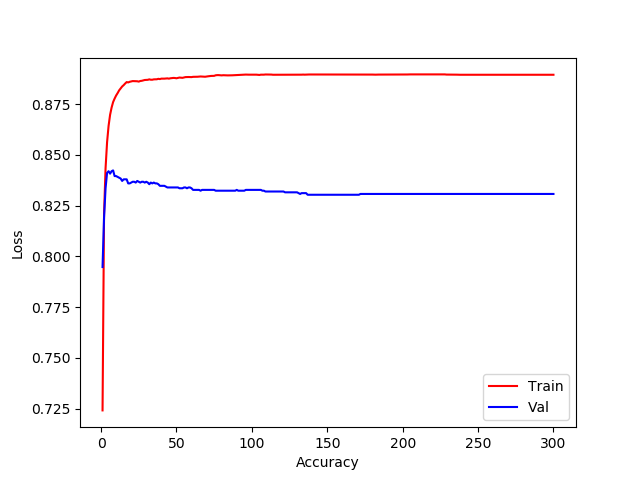
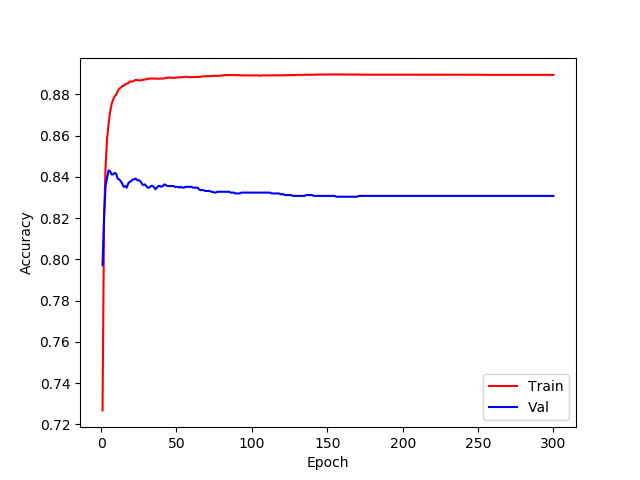
change picking the best model based on acc not loss

diff --git a/trainer.py b/trainer.py
@@ -40,9 +40,10 @@ train_loader = DataLoader(X_train, y_train,  bs=BATCH_SIZE)
 val_loader = DataLoader(X_val, y_val, bs=BATCH_SIZE)
 test_loader = DataLoader(X_val, y_val, bs=BATCH_SIZE)
 
-
+is_criterion_best_val_loss = False
 best_model = None
 best_val_loss = 9999
+best_val_acc = 0
 train_val_loss_list = []
 train_val_acc_list = []
 best_epoch_num = None
@@ -84,14 +85,23 @@ for epoch in tqdm(range(MAX_EPOCH)):
     train_val_loss_list.append((train_loss/len(train_loader), val_loss/len(val_loader)))
     train_val_acc_list.append((train_acc, val_acc))
 
-    if val_loss < best_val_loss:
-        best_val_loss = val_loss
-        best_epoch_num = epoch + 1
-        if best_model is not None:  # collect garbage
-            del best_model
-        best_model = deepcopy(model)
+    if is_criterion_best_val_loss:
+        if val_loss < best_val_loss:
+            best_val_loss = val_loss
+            best_epoch_num = epoch + 1
+            if best_model is not None:  # collect garbage
+                del best_model
+            best_model = deepcopy(model)
+    else:
+        if val_acc > best_val_acc:
+            best_val_acc = val_acc
+            best_epoch_num = epoch + 1
+            if best_model is not None:  # collect garbage
+                del best_model
+            best_model = deepcopy(model)
 
-print(f'Best val loss at: {best_epoch_num:d} th epoch')
+
+print(f'Best model at: {best_epoch_num:d} th epoch, given val set')
 # save train and val loss to pickle
 with open('train_val_loss.pkl', 'bw') as f:
     pkl.dump(train_val_loss_list, f)

diff --git a/draw.py b/draw.py
@@ -27,7 +27,7 @@ x = [x + 1 for x in list(range(len(train_val_loss_list)))]
 
 plt.plot(x, train_acc_list, 'r', label='Train')
 plt.plot(x, val_acc_list, 'b', label='Val')
-plt.ylabel('Loss')
-plt.xlabel('Accuracy')
+plt.ylabel('Accuracy')
+plt.xlabel('Epoch')
 plt.legend()
 plt.savefig('img/train_curve_acc.png')

diff --git a/README.md b/README.md
@@ -31,9 +31,9 @@ aclImdb
 
 ## Result
 
-Best val loss at: 7 th epoch
+Best model at: 5 th epoch, given val set
 
-Test accuracy is: 0.842000
+Test accuracy is: 0.843200
 
 
 
